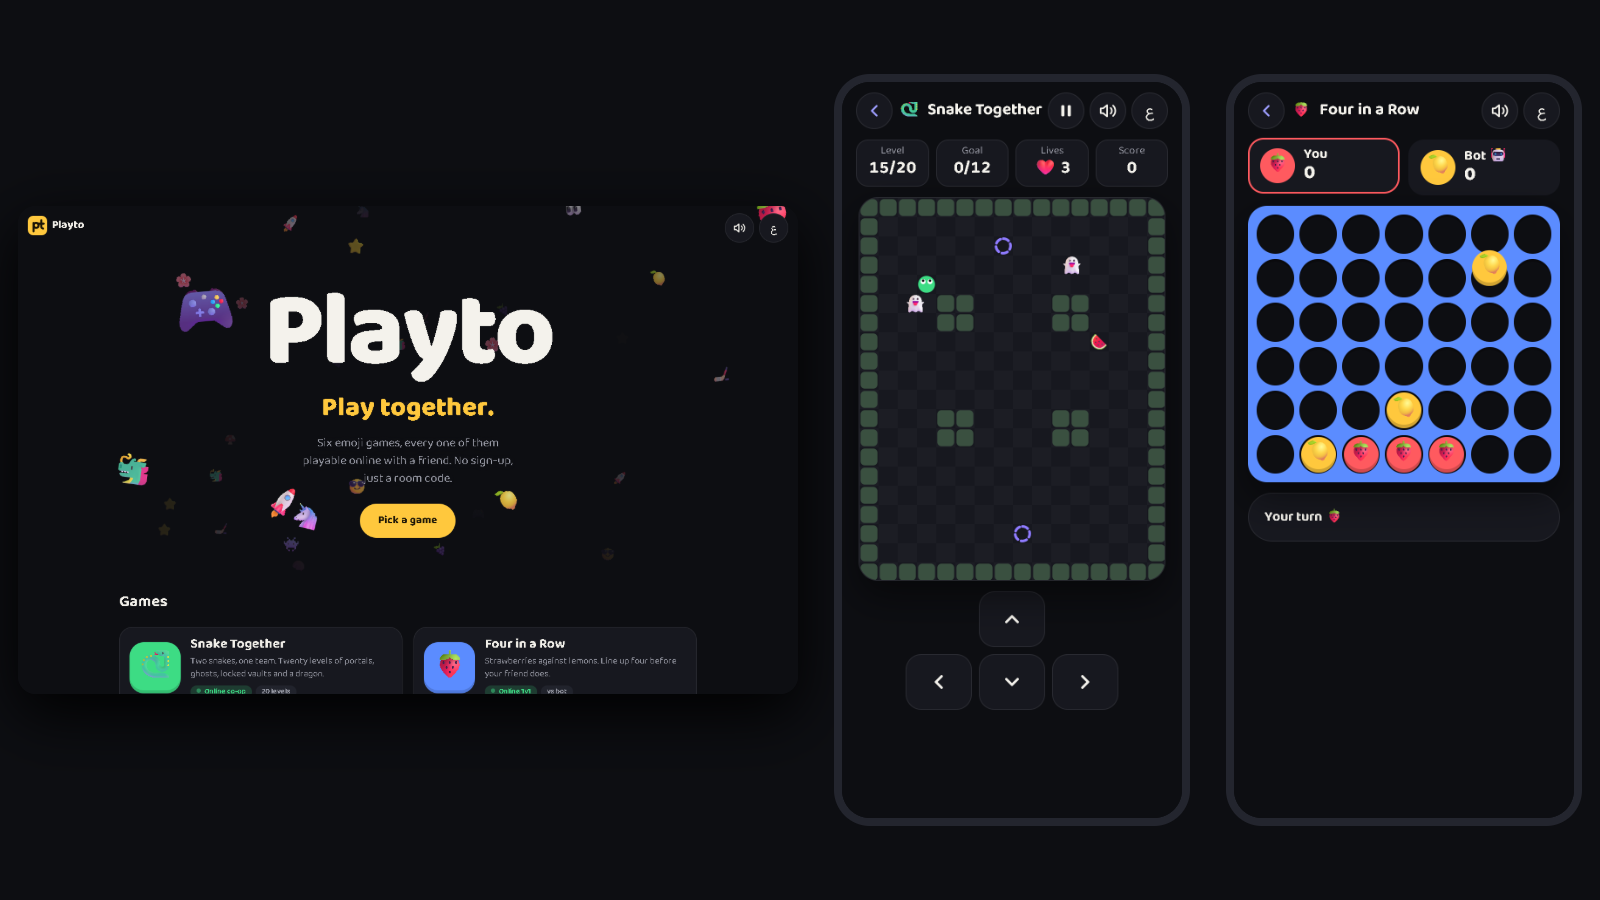
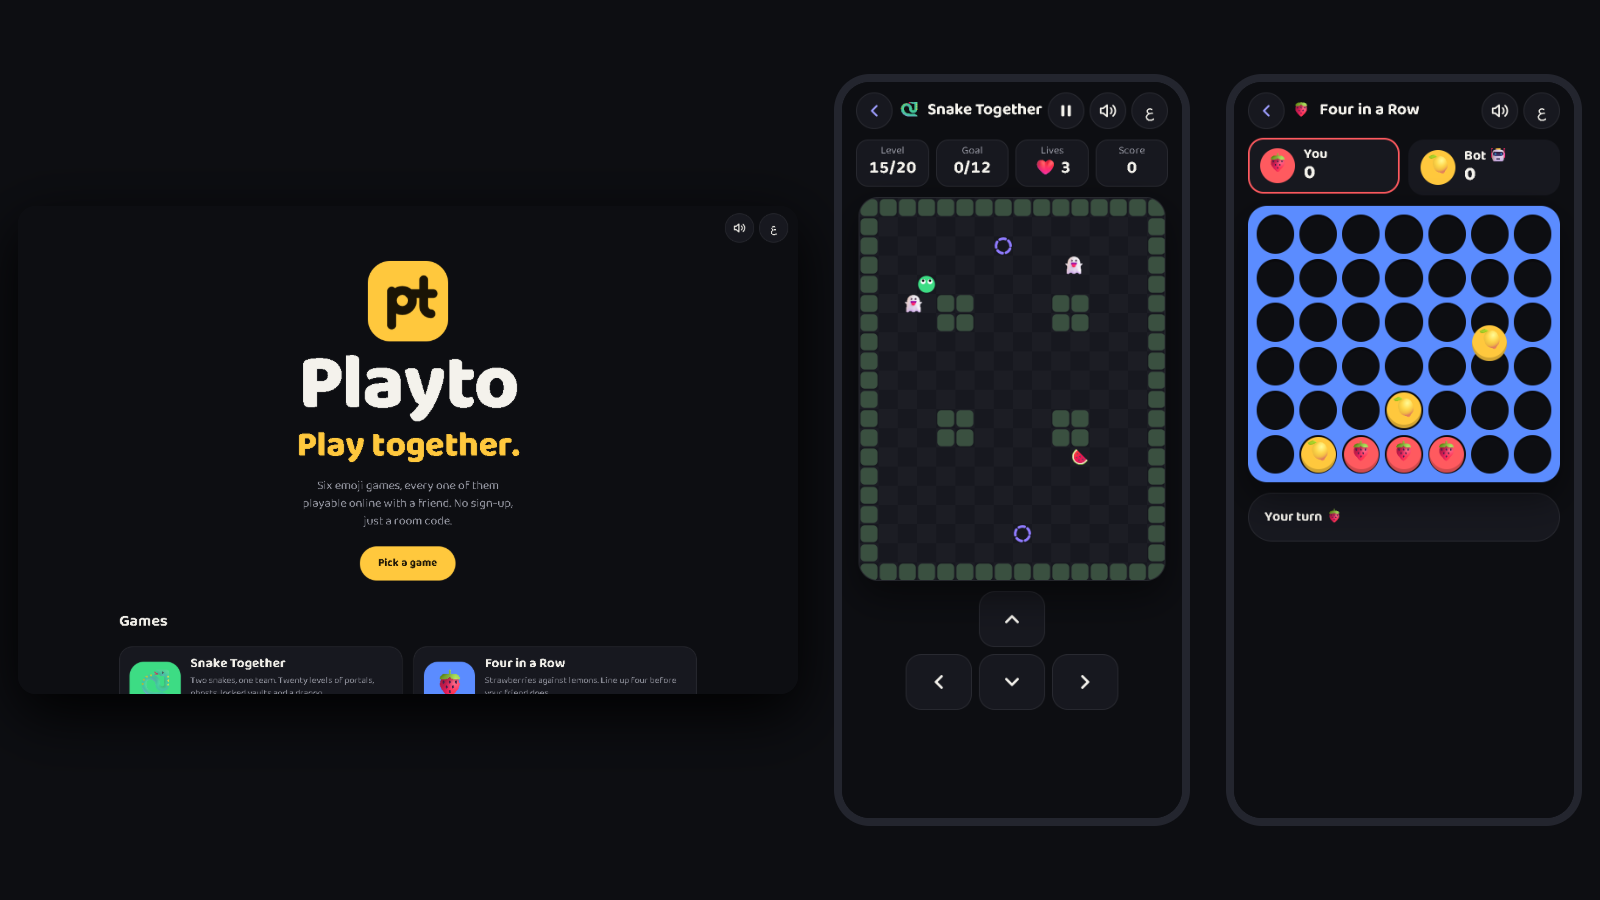
Home page: draw the pt mark and slide the name out of it, drop the emoji space

diff --git a/js/hub.js b/js/hub.js
@@ -1,202 +1,27 @@
-import { drawEmoji } from "./emoji.js";
 import { initChrome } from "./ui.js";
 
-const POOL = ["🍓", "🍋", "🐍", "🚀", "🧠", "🏒", "👀", "🍎", "👾", "⭐", "🌸", "🎮", "😎", "🍉", "🐲", "🍄", "🦄", "🍇"];
-const FORM_MS = 1500;
-const HOLD_MS = 450;
-const RELEASE_MS = 700;
 const reducedMotion = window.matchMedia("(prefers-reduced-motion: reduce)").matches;
+const flood = document.getElementById("flood");
 
 initChrome();
 
-const canvas = document.getElementById("space");
-const wordmark = document.getElementById("wordmark");
-const ctx = canvas.getContext("2d");
-const count = navigator.hardwareConcurrency > 4 ? 90 : 55;
-let width = 0;
-let height = 0;
-let stars = [];
-let swarm = null;
-let speed = 0.0022;
-let warp = null;
-let tilt = { x: 0, y: 0, tx: 0, ty: 0 };
-let visible = true;
-let last = performance.now();
-
-function resize() {
-  const dpr = Math.min(window.devicePixelRatio || 1, 2);
-  width = canvas.clientWidth;
-  height = canvas.clientHeight;
-  canvas.width = Math.round(width * dpr);
-  canvas.height = Math.round(height * dpr);
-  ctx.setTransform(dpr, 0, 0, dpr, 0, 0);
-}
-
-function spawn(z = 0.2 + Math.random() * 0.8, emoji) {
-  return {
-    x: (Math.random() - 0.5) * 2.4,
-    y: (Math.random() - 0.5) * 2.4,
-    z,
-    emoji: emoji ?? POOL[Math.floor(Math.random() * POOL.length)],
-    spin: (Math.random() - 0.5) * 0.6,
-  };
-}
-
-function frame(now) {
-  const dt = Math.min(now - last, 50);
-  last = now;
-  if (visible || warp) {
-    ctx.clearRect(0, 0, width, height);
-    drawStars(dt);
-    if (swarm) drawSwarm(now);
-  }
-  requestAnimationFrame(frame);
-}
-
-function drawStars(dt) {
-  tilt.x += (tilt.tx - tilt.x) * 0.05;
-  tilt.y += (tilt.ty - tilt.y) * 0.05;
-  if (warp) speed = Math.min(speed * 1.09, 0.06);
-
-  const cx = width / 2 + tilt.x * 40;
-  const cy = height / 2 + tilt.y * 30;
-  const focal = Math.min(width, height) * 0.5;
-  const base = Math.max(34, Math.min(width, height) * 0.075);
-
-  stars.sort((a, b) => b.z - a.z);
-  for (let i = 0; i < stars.length; i++) {
-    const star = stars[i];
-    star.z -= speed * dt * 0.06;
-    if (star.z <= 0.04) {
-      stars[i] = spawn(1, warp && Math.random() < 0.7 ? warp.emoji : undefined);
-      continue;
-    }
-    const sx = cx + (star.x / star.z) * focal;
-    const sy = cy + (star.y / star.z) * focal;
-    // Bucketed so a few dozen cached bitmaps cover every depth.
-    const size = Math.max(8, Math.round(base / (star.z * 2.2) / 6) * 6);
-    if (sx < -size || sx > width + size || sy < -size || sy > height + size) continue;
-    ctx.globalAlpha = Math.min(1, (1 - star.z) * 1.6);
-    drawEmoji(ctx, star.emoji, sx, sy, size, star.spin * (1 - star.z) * 2);
-  }
-  ctx.globalAlpha = 1;
-}
-
-// The name is sampled from the real heading's font and position, then a
-// swarm of emoji flies in from the edges of space and settles on those
-// points, left to right, before the text itself takes over.
-async function formWordmark() {
-  const style = getComputedStyle(wordmark);
-  const font = `${style.fontWeight} ${style.fontSize} ${style.fontFamily}`;
-  await document.fonts.load(font, wordmark.textContent);
-  const box = wordmark.getBoundingClientRect();
-  const origin = canvas.getBoundingClientRect();
-
-  const sample = document.createElement("canvas");
-  sample.width = Math.ceil(box.width);
-  sample.height = Math.ceil(box.height);
-  const g = sample.getContext("2d", { willReadFrequently: true });
-  g.font = font;
-  g.textAlign = "center";
-  g.textBaseline = "middle";
-  g.fillText(wordmark.textContent, sample.width / 2, sample.height / 2 + parseFloat(style.fontSize) * 0.06);
-  const pixels = g.getImageData(0, 0, sample.width, sample.height).data;
-
-  const step = Math.max(6, Math.round(parseFloat(style.fontSize) / 13));
-  const points = [];
-  for (let y = step / 2; y < sample.height; y += step) {
-    for (let x = step / 2; x < sample.width; x += step) {
-      if (pixels[(Math.floor(y) * sample.width + Math.floor(x)) * 4 + 3] > 140) points.push([x, y]);
-    }
-  }
-
-  const reach = Math.max(width, height);
-  swarm = {
-    start: performance.now(),
-    size: step * 1.5,
-    bits: points.map(([x, y]) => {
-      const angle = Math.random() * Math.PI * 2;
-      const tx = box.left - origin.left + x;
-      const ty = box.top - origin.top + y;
-      return {
-        sx: width / 2 + Math.cos(angle) * reach * (0.6 + Math.random() * 0.5),
-        sy: height / 2 + Math.sin(angle) * reach * (0.6 + Math.random() * 0.5),
-        tx,
-        ty,
-        delay: (x / sample.width) * 450 + Math.random() * 180,
-        emoji: POOL[Math.floor(Math.random() * POOL.length)],
-        spin: (Math.random() - 0.5) * 6,
-      };
-    }),
-  };
-}
-
-function drawSwarm(now) {
-  const elapsed = now - swarm.start;
-  const releaseAt = FORM_MS + HOLD_MS;
-  if (elapsed > releaseAt && !wordmark.classList.contains("formed")) wordmark.classList.add("formed");
-  const fade = elapsed > releaseAt ? 1 - (elapsed - releaseAt) / RELEASE_MS : 1;
-  if (fade <= 0) {
-    swarm = null;
-    return;
-  }
-  ctx.globalAlpha = fade;
-  for (const bit of swarm.bits) {
-    const t = Math.min(1, Math.max(0, (elapsed - bit.delay) / (FORM_MS - 450)));
-    const ease = 1 - Math.pow(1 - t, 3);
-    const x = bit.sx + (bit.tx - bit.sx) * ease;
-    const y = bit.sy + (bit.ty - bit.sy) * ease;
-    const size = swarm.size * (1 + (1 - ease) * 2.5);
-    drawEmoji(ctx, bit.emoji, x, y, Math.round(size / 3) * 3, bit.spin * (1 - ease));
-  }
-  ctx.globalAlpha = 1;
-}
-
-resize();
-stars = Array.from({ length: count }, () => spawn());
-window.addEventListener("resize", resize);
-
-if (reducedMotion) {
-  // One still frame of the galaxy instead of an empty hero.
-  wordmark.classList.add("formed");
-  drawStars(0);
-} else {
-  requestAnimationFrame(frame);
-  formWordmark().catch(() => wordmark.classList.add("formed"));
-  window.addEventListener("pointermove", (e) => {
-    tilt.tx = (e.clientX / window.innerWidth - 0.5) * 2;
-    tilt.ty = (e.clientY / window.innerHeight - 0.5) * 2;
-  });
-  new IntersectionObserver(([entry]) => (visible = entry.isIntersecting)).observe(canvas);
-  document.addEventListener("visibilitychange", () => (last = performance.now()));
-}
-
-// Opening a game flies the camera into that game's emoji, and the game's
-// colour floods out from its card before the next page takes over.
+// Opening a game floods its colour out from the card's icon before the
+// next page takes over.
 for (const card of document.querySelectorAll(".game-card")) {
   card.addEventListener("click", (e) => {
     if (reducedMotion || e.metaKey || e.ctrlKey || e.shiftKey) return;
     e.preventDefault();
     const icon = card.querySelector(".game-icon").getBoundingClientRect();
-    warp = { emoji: card.dataset.emoji };
-    tilt.tx = tilt.ty = 0;
-    for (let i = 0; i < 24; i++) stars[i] = spawn(0.3 + Math.random() * 0.7, card.dataset.emoji);
-
-    const flood = document.getElementById("flood");
     flood.style.setProperty("--x", `${icon.left + icon.width / 2}px`);
     flood.style.setProperty("--y", `${icon.top + icon.height / 2}px`);
     flood.style.background = getComputedStyle(card).getPropertyValue("--tone");
-    flood.textContent = card.dataset.emoji;
     flood.classList.add("go");
-    setTimeout(() => (location.href = card.href), 720);
+    setTimeout(() => (location.href = card.href), 650);
   });
 }
 
 // Coming back through the browser history restores this page from cache
 // with the flood still covering it.
 window.addEventListener("pageshow", (e) => {
-  if (!e.persisted) return;
-  document.getElementById("flood").classList.remove("go");
-  warp = null;
-  speed = 0.0022;
+  if (e.persisted) flood.classList.remove("go");
 });

diff --git a/index.html b/index.html
@@ -17,50 +17,69 @@
     body { overflow-x: hidden; }
 
     .hero {
-      position: relative;
-      min-height: min(78svh, 720px);
+      min-height: min(82svh, 760px);
       display: grid;
       place-items: center;
       padding: 88px 16px 40px;
-      overflow: hidden;
-      isolation: isolate;
     }
-    #space {
-      position: absolute;
-      inset: 0;
-      width: 100%;
-      height: 100%;
-      z-index: -1;
+    .hero-copy { text-align: center; max-width: 640px; display: flex; flex-direction: column; align-items: center; }
+
+    /* The mark draws itself stroke by stroke, then the name slides out of it. */
+    .mark { width: clamp(96px, 26vw, 132px); height: auto; position: relative; z-index: 1; overflow: visible; }
+    .mark-tile { fill: var(--accent); transform-origin: 32px 32px; animation: tile-in 0.5s cubic-bezier(0.2, 0.9, 0.3, 1.3) 0.15s both; }
+    .ink {
+      fill: none;
+      stroke: var(--on-accent);
+      stroke-width: 7;
+      stroke-linecap: round;
+      stroke-linejoin: round;
+      stroke-dasharray: 1;
+      stroke-dashoffset: 1;
+      animation: ink 0.34s ease-in-out forwards;
     }
-    .hero-copy { text-align: center; max-width: 620px; }
+    .ink.s1 { animation-delay: 0.55s; }
+    .ink.s2 { animation-duration: 0.5s; animation-delay: 0.85s; }
+    .ink.s3 { animation-delay: 1.35s; }
+    .ink.s4 { animation-duration: 0.3s; animation-delay: 1.65s; }
+    .mark { animation: clasp 0.45s ease 1.95s; }
+    @keyframes tile-in { from { transform: scale(0) rotate(-12deg); } }
+    @keyframes ink { to { stroke-dashoffset: 0; } }
+    @keyframes clasp { 40% { transform: scale(1.08) rotate(-3deg); } }
+
     .wordmark {
-      margin: 0;
-      font-size: clamp(80px, 24vw, 172px);
+      margin: 18px 0 0;
+      font-size: clamp(64px, 19vw, 128px);
       font-weight: 800;
-      line-height: 1.05;
-      letter-spacing: -0.03em;
+      line-height: 0.95;
+      letter-spacing: -0.02em;
       direction: ltr;
-      opacity: 0;
-      animation: reveal 0.6s ease 3.5s forwards;
     }
-    .wordmark.formed { opacity: 1; animation: none; transition: opacity 0.6s ease; }
-    @keyframes reveal { to { opacity: 1; } }
-    @media (prefers-reduced-motion: reduce) { .wordmark { opacity: 1; animation: none; } }
     .tagline {
-      margin: 0;
+      margin: 6px 0 0;
       color: var(--accent);
-      font-size: clamp(28px, 8vw, 44px);
+      font-size: clamp(30px, 9vw, 58px);
       font-weight: 800;
-      line-height: 1.1;
+      line-height: 1;
+      letter-spacing: -0.01em;
     }
     .hero .lead {
-      margin: 18px auto 0;
+      margin: 20px auto 0;
       max-width: 30ch;
       color: var(--muted);
       font-size: clamp(17px, 4.4vw, 20px);
-      text-shadow: 0 1px 12px var(--bg);
     }
     .hero .cta { margin-top: 26px; min-height: 56px; padding: 0 30px; font-size: 18px; text-decoration: none; }
+    .wordmark, .tagline { animation: emerge 0.7s cubic-bezier(0.2, 0.8, 0.2, 1) both; }
+    .wordmark { animation-delay: 2.05s; }
+    .tagline { animation-delay: 2.25s; }
+    .hero .lead, .hero .cta { animation: rise 0.7s ease both; }
+    .hero .lead { animation-delay: 2.5s; }
+    .hero .cta { animation-delay: 2.65s; }
+    @keyframes emerge { from { opacity: 0; transform: translateY(-70%) scale(0.6); filter: blur(8px); } }
+    @keyframes rise { from { opacity: 0; transform: translateY(18px); } }
+    @media (prefers-reduced-motion: reduce) {
+      .ink { stroke-dashoffset: 0; }
+    }
 
     .corner {
       position: absolute;
@@ -70,21 +89,6 @@
       gap: 8px;
       z-index: 10;
     }
-    .brand img { display: block; border-radius: 9px; }
-    .brand {
-      color: inherit;
-      text-decoration: none;
-      position: absolute;
-      top: max(16px, env(safe-area-inset-top));
-      inset-inline-start: 16px;
-      font-weight: 800;
-      font-size: 18px;
-      display: flex;
-      align-items: center;
-      gap: 8px;
-      z-index: 2;
-    }
-
     .games {
       max-width: 980px;
       margin: 0 auto;
@@ -178,9 +182,6 @@
       z-index: 100;
       pointer-events: none;
       clip-path: circle(0 at var(--x) var(--y));
-      display: grid;
-      place-items: center;
-      font-size: 120px;
       visibility: hidden;
     }
     #flood.go {
@@ -191,16 +192,21 @@
   </style>
 </head>
 <body>
-  <a class="brand" href="./"><img src="assets/logo.svg" width="32" height="32" alt=""><span data-t="hub.brand">Playto</span></a>
   <div class="corner">
     <button class="icon-btn" data-action="sound"></button>
     <button class="icon-btn" data-action="lang"></button>
   </div>
 
   <header class="hero">
-    <canvas id="space" aria-hidden="true"></canvas>
     <div class="hero-copy">
-      <h1 class="wordmark" id="wordmark">Playto</h1>
+      <svg class="mark" viewBox="0 0 64 64" aria-hidden="true">
+        <rect class="mark-tile" width="64" height="64" rx="18"/>
+        <path class="ink s1" pathLength="1" d="M19 24v27"/>
+        <path class="ink s2" pathLength="1" d="M19.5 31.5a8 8 0 1 1 16 0a8 8 0 1 1 -16 0"/>
+        <path class="ink s3" pathLength="1" d="M44.5 15v21a6 6 0 0 0 6 6"/>
+        <path class="ink s4" pathLength="1" d="M52 26H33"/>
+      </svg>
+      <h1 class="wordmark">Playto</h1>
       <p class="tagline" data-t="hub.tagline">Play together.</p>
       <p class="lead" data-t="hub.lead">Six emoji games, every one of them playable online with a friend.</p>
       <a class="btn btn-primary cta" href="#games" data-t="hub.cta">Pick a game</a>

diff --git a/js/strings.js b/js/strings.js
@@ -202,7 +202,6 @@ const ar = {
   "breakout.power.life": "روح زيادة",
 
   "hub.pageTitle": "بلايتو · العبوا مع بعض",
-  "hub.brand": "بلايتو",
   "hub.tagline": "العبوا مع بعض.",
   "hub.lead": "ست ألعاب إيموجي، وكلهم ينفع يتلعبوا أونلاين مع صاحبك. من غير تسجيل، كود وخلاص.",
   "hub.hockeyText": "مضرب ضد مضرب وكورة إيموجي بتطير. أول واحد يجيب ٧ جوان يكسب.",
@@ -435,7 +434,6 @@ const en = {
   "breakout.power.life": "Extra life",
 
   "hub.pageTitle": "Playto · Play together",
-  "hub.brand": "Playto",
   "hub.tagline": "Play together.",
   "hub.lead": "Six emoji games, every one of them playable online with a friend. No sign-up, just a room code.",
   "hub.hockeyText": "Mallet against mallet and a flying emoji puck. First to seven wins.",

diff --git a/README.md b/README.md
@@ -55,7 +55,7 @@ The other phone is treated as untrusted: anyone can open the console and send an
 - Light and dark themes that follow the system
 - Touch first: swipe or a d-pad for Snake, drag for Breakout, big targets everywhere
 - Progress, stars and the Breakout high score are saved in the browser
-- `prefers-reduced-motion` is respected, including the flight into a game from the home page
+- The home page draws the pt mark stroke by stroke and the name slides out of it; with `prefers-reduced-motion` it is simply there
 
 ## ▶ Run it
 
